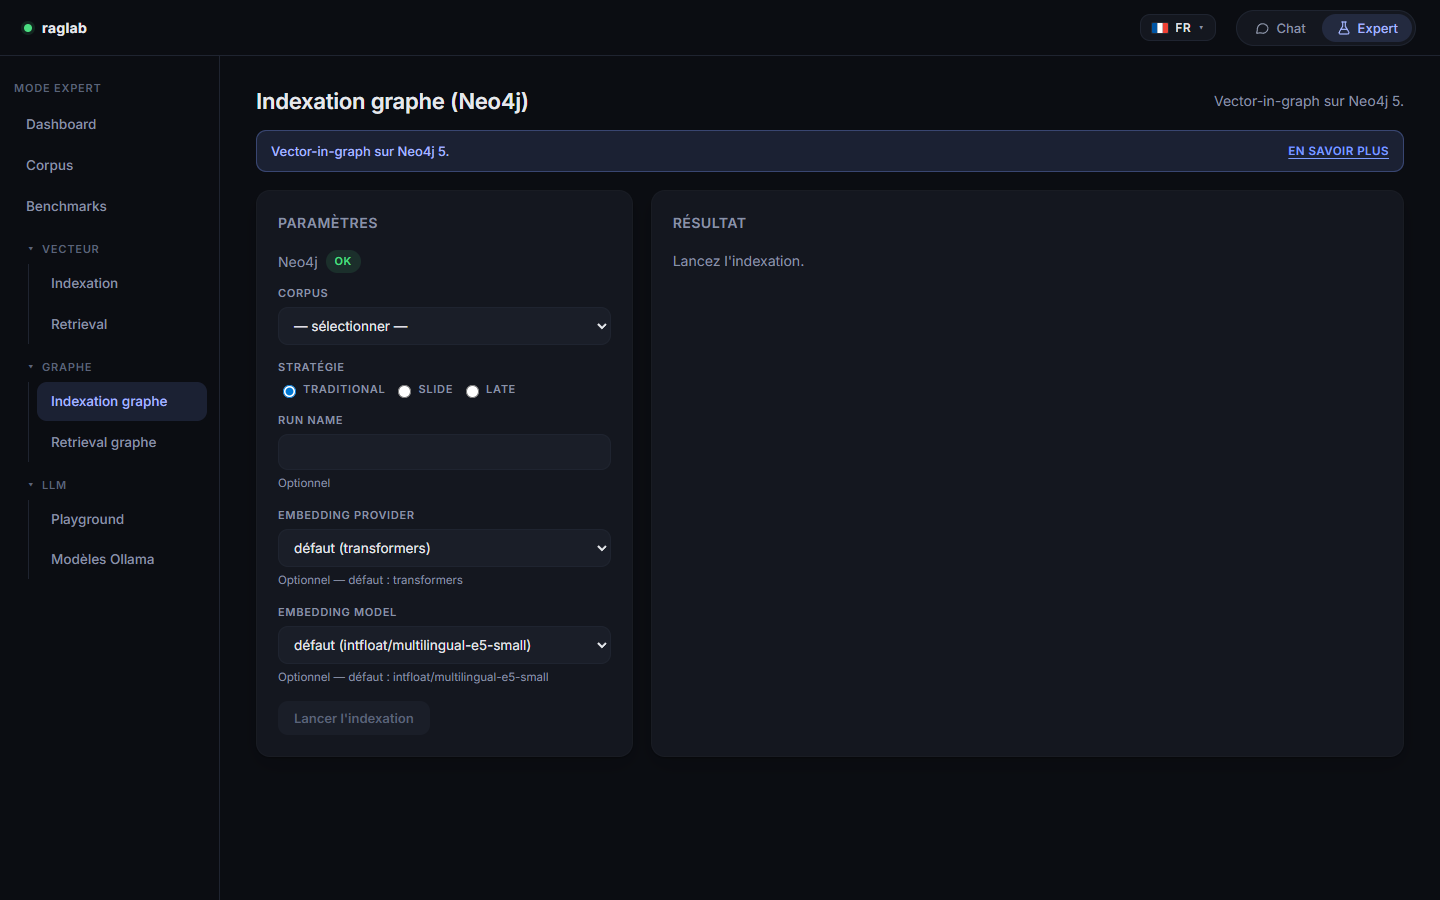
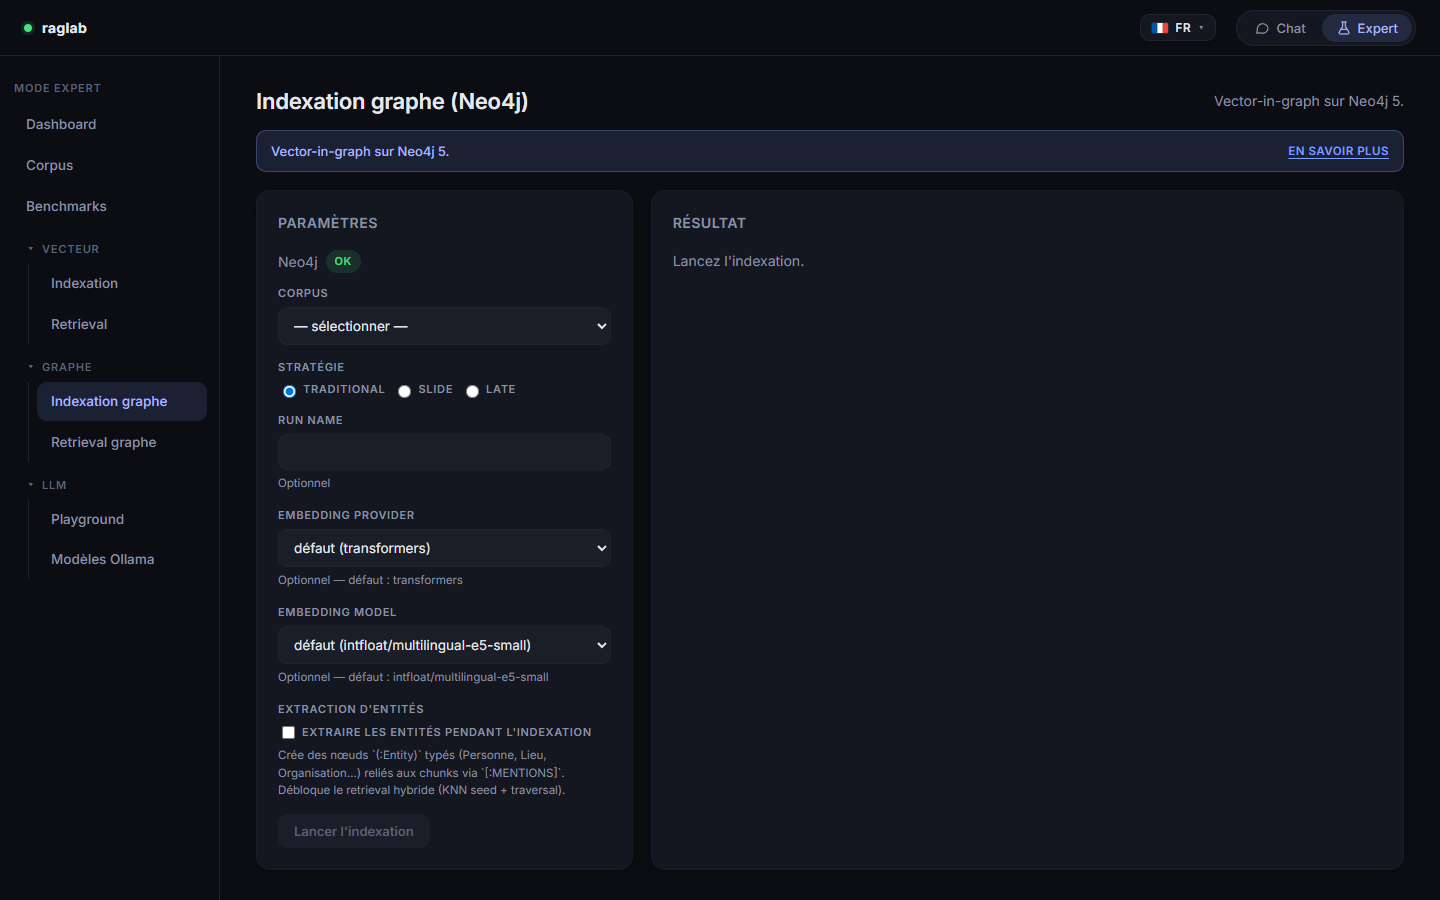
Roadmap: mark entity extraction shipped, split 8.2 into sub-phases
Phase 8.2 splits into 8.2.1 extraction (done), 8.2.2 hybrid retrieval
(next), 8.2.3 metadata as nodes (later). Screenshot refreshed so the
new Entity extraction section of the Graph indexing page is visible
in the README gallery once we touch the README next.

Changed region(s): [[0.1875, 0.7778, 0.4062, 0.9333]]

diff --git a/docs/roadmap.md b/docs/roadmap.md
@@ -100,11 +100,28 @@ La roadmap ci-dessous reflète l'ordre réel de livraison. Les phases 0 à 5 son
 - UI History : colonne Backend avec tag coloré (vert pgvector, bleu neo4j) ; le chart comparatif inclut le backend dans le label.
 - Smoke test piaf_fr : pgvector 0.87 R@1 / 0.93 MRR ≈ neo4j 0.87 R@1 / 0.93 MRR (identique, mêmes chunks et embeddings).
 
-**Sous-phase 8.2 — Knowledge graph**
+**Sous-phase 8.2 — Knowledge graph 🚧 (en cours)**
 
-- extraction d'entités / relations (LLM ou spaCy) lors de l'ingestion
-- nœuds typés (`Personne`, `Loi`, `Événement`…) + relations
-- mode retrieval hybride : seed KNN → expansion `k`-hops → re-rank
+**8.2.1 — Extraction d'entités ✅ (livré)**
+
+- module `src/raglab/graph/entities/` : `EntityExtractor` Protocol + deux implémentations
+  - `LLMEntityExtractor` : Ollama (qwen2.5:7b) avec prompt JSON-schema et 7 types canoniques (PERSON, ORGANIZATION, LOCATION, DATE, LAW, EVENT, PRODUCT, + MISC)
+  - `SpacyEntityExtractor` : spaCy (optionnel, `pip install raglab[graph]`), remappe OntoNotes vers les 7 types canoniques
+- `Neo4jGraphStore.upsert_chunks` accepte `entities_per_chunk` et MERGE `(:Entity {name, type})` + `[:MENTIONS]` depuis chaque Chunk
+- `GraphIndexingService.index_corpus` accepte `extract_entities` + `extraction_engine` ; tags `config_json.entity_extraction{,_engine}` + retourne `entities_extracted`
+- `/api/graph/index` accepte `extract_entities` + `extraction_engine` dans le body
+- UI Indexation graphe : checkbox « Extraire les entités » + dropdown moteur (LLM / spaCy)
+- smoke test sur piaf_fr : 56 entités typées extraites sur 6 chunks avec le LLM (19 LOCATION, 9 ORGANIZATION, 8 PRODUCT, 8 PERSON, 5 EVENT, 4 MISC, 1 DATE)
+
+**8.2.2 — Retrieval hybride (à venir)**
+
+- mode retrieval hybride : seed KNN → expansion `k`-hops via `[:MENTIONS]` → re-rank
+- option de filtre par type d'entité (ex. toutes les mentions de Personne uniquement)
+- page dédiée ou extension de Retrieval graphe
+
+**8.2.3 — Filtres metadata (à venir)**
+
+- modéliser les metadata comme nœuds de premier rang pour que `metadata_equals` fonctionne côté graphe
 
 ## Phase 9 — Industrialisation
 
